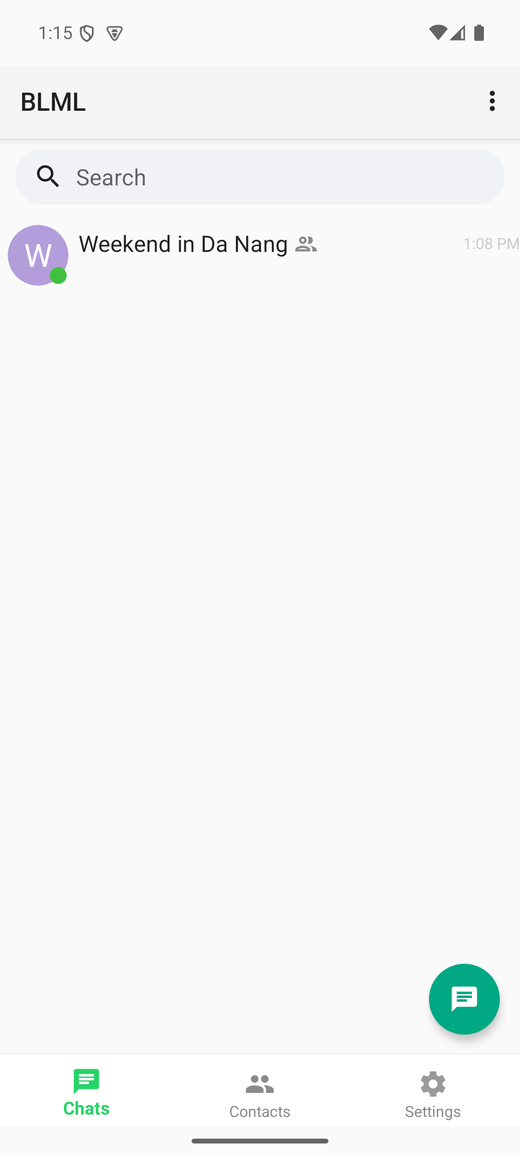
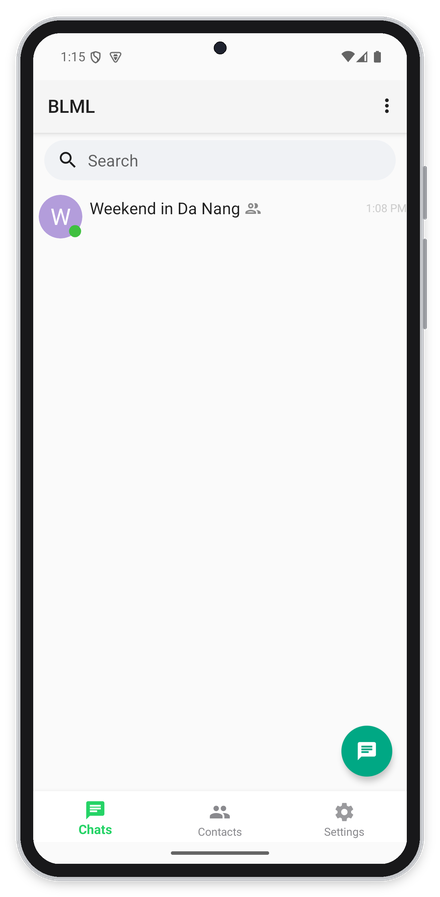
Frame the Android screenshots too, in an Android-style body
Both rows are now framed, and the two frames differ where the real devices do
rather than reusing one outline: squarer glass, a centred punch-hole camera,
and power-above-volume on the right edge only, against the iPhone's Dynamic
Island and buttons on both sides. A reader can tell which platform each row is
without reading the caption, which was the whole reason for not putting an
iPhone bezel around an Android screen in the first place.

The punch-hole is placed in the gap between the clock and the status icons, so
it never covers anything the screenshot is showing.

frame-device.py takes the style as an argument now and keeps deriving every
measurement from the screenshot width, so it stays resolution-independent.

Android sized to match the iPhone row so the handsets read as the same
physical size. 628 KB of images in total.

Changed region(s): [[0.0, 0.0, 1.0, 0.9989], [0.8568, 0.0936, 0.8864, 0.1249]]

diff --git a/brand/frame-device.py b/brand/frame-device.py
@@ -1,12 +1,19 @@
 #!/usr/bin/env python3
-"""Composite a raw iOS screenshot into an iPhone-style device frame.
+"""Composite a raw phone screenshot into a device frame.
+
+    frame-device.py <screenshot> <output> [ios|android]
 
 README screenshots read better inside a handset: it tells the reader at a
-glance that this is a phone app, and stops the flat white login screen from
+glance that this is a phone app, and stops the mostly-white screens from
 dissolving into GitHub's white page background.
 
-Everything is derived from the screenshot width so the geometry holds at any
-resolution. Output is RGBA with a transparent margin, so the frame sits on
+Two styles, because putting an iPhone bezel around an Android screenshot would
+misrepresent what the reader is looking at. They differ where the real devices
+do: corner radius, which edges carry buttons, and whether there is a punch-hole
+camera in the status bar.
+
+All geometry is derived from the screenshot width, so the same script works at
+any resolution. Output is RGBA with a transparent margin so the frame sits on
 both the light and dark GitHub themes.
 """
 import os
@@ -14,22 +21,32 @@ import sys
 
 from PIL import Image, ImageDraw, ImageFilter
 
+STYLES = {
+    # radius, bezel, band colour, button colour, punch-hole
+    "ios": dict(screen_r=0.098, bezel=0.030, band=(209, 211, 215), btn=(176, 178, 183),
+                punch=False),
+    # Pixel-style: slightly squarer glass, a marginally thicker bezel, a warmer
+    # aluminium band, and a centred front camera.
+    "android": dict(screen_r=0.072, bezel=0.034, band=(196, 198, 202), btn=(150, 152, 157),
+                    punch=True),
+}
 
-def frame(src, dst):
+
+def frame(src, dst, style="ios"):
+    cfg = STYLES[style]
     shot = Image.open(src).convert("RGB")
     w, h = shot.size
 
-    bezel = round(w * 0.030)      # black border around the glass
-    rail = round(w * 0.010)       # bright edge suggesting the titanium band
-    pad = round(w * 0.055)        # transparent margin for the shadow + buttons
-    screen_r = round(w * 0.098)   # screen corner radius
+    bezel = round(w * cfg["bezel"])
+    rail = round(w * 0.010)
+    pad = round(w * 0.055)
+    screen_r = round(w * cfg["screen_r"])
     body_r = screen_r + bezel
 
     bw, bh = w + bezel * 2, h + bezel * 2
     cw, ch = bw + pad * 2, bh + pad * 2
     canvas = Image.new("RGBA", (cw, ch), (0, 0, 0, 0))
 
-    # Drop shadow first, so the body sits on top of it.
     shadow = Image.new("RGBA", (cw, ch), (0, 0, 0, 0))
     ImageDraw.Draw(shadow).rounded_rectangle(
         [pad, pad + round(h * 0.004), pad + bw, pad + bh + round(h * 0.004)],
@@ -37,31 +54,44 @@ def frame(src, dst):
     canvas.alpha_composite(shadow.filter(ImageFilter.GaussianBlur(round(w * 0.018))))
 
     d = ImageDraw.Draw(canvas)
-    # Outer band, then the black body inset within it.
     d.rounded_rectangle([pad - rail, pad - rail, pad + bw + rail, pad + bh + rail],
-                        body_r + rail, fill=(209, 211, 215, 255))
+                        body_r + rail, fill=cfg["band"] + (255,))
     d.rounded_rectangle([pad, pad, pad + bw, pad + bh], body_r, fill=(24, 24, 26, 255))
 
-    # Side buttons: volume pair and action button left, power right.
-    btn = (176, 178, 183, 255)
+    btn = cfg["btn"] + (255,)
     bx_l, bx_r = pad - rail, pad + bw + rail
-    for top, length in ((0.150, 0.052), (0.232, 0.086), (0.335, 0.086)):
-        y = pad + round(bh * top)
-        d.rounded_rectangle([bx_l - round(w * 0.008), y, bx_l + 1, y + round(bh * length)],
-                            round(w * 0.004), fill=btn)
-    y = pad + round(bh * 0.245)
-    d.rounded_rectangle([bx_r - 1, y, bx_r + round(w * 0.008), y + round(bh * 0.130)],
-                        round(w * 0.004), fill=btn)
+    thick, r = round(w * 0.008), round(w * 0.004)
+    if style == "ios":
+        # Action button and volume pair left, power right.
+        for top, length in ((0.150, 0.052), (0.232, 0.086), (0.335, 0.086)):
+            y = pad + round(bh * top)
+            d.rounded_rectangle([bx_l - thick, y, bx_l + 1, y + round(bh * length)], r, fill=btn)
+        y = pad + round(bh * 0.245)
+        d.rounded_rectangle([bx_r - 1, y, bx_r + thick, y + round(bh * 0.130)], r, fill=btn)
+    else:
+        # Android convention: power above the volume rocker, both on the right.
+        for top, length in ((0.170, 0.062), (0.255, 0.105)):
+            y = pad + round(bh * top)
+            d.rounded_rectangle([bx_r - 1, y, bx_r + thick, y + round(bh * length)], r, fill=btn)
 
-    # Round the screenshot's own corners so it matches the glass.
     mask = Image.new("L", (w, h), 0)
     ImageDraw.Draw(mask).rounded_rectangle([0, 0, w, h], screen_r, fill=255)
     canvas.paste(shot, (pad + bezel, pad + bezel), mask)
+
+    if cfg["punch"]:
+        # Centred front camera. It lands in the empty gap between the clock and
+        # the status icons, so it never covers anything the screenshot is showing.
+        cr = round(w * 0.017)
+        cx = pad + bezel + w // 2
+        cy = pad + bezel + round(h * 0.0175)
+        d.ellipse([cx - cr, cy - cr, cx + cr, cy + cr], fill=(12, 12, 14, 255))
+        d.ellipse([cx - cr + 2, cy - cr + 2, cx + cr - 2, cy + cr - 2], fill=(30, 34, 46, 255))
 
     canvas.save(dst)
     return canvas.size
 
 
 if __name__ == "__main__":
-    size = frame(sys.argv[1], sys.argv[2])
-    print(f"  {os.path.basename(sys.argv[2])}  {size[0]}x{size[1]}")
+    style = sys.argv[3] if len(sys.argv) > 3 else "ios"
+    size = frame(sys.argv[1], sys.argv[2], style)
+    print(f"  {os.path.basename(sys.argv[2])}  {size[0]}x{size[1]}  ({style})")

diff --git a/README.md b/README.md
@@ -24,8 +24,8 @@ address anyone can reach is not a room anyone can walk into.
 <p align="center"><sub>On iPhone</sub></p>
 
 <p align="center">
-  <img src="brand/screenshots/android-chats.png" width="215" alt="Android chat list">
-  <img src="brand/screenshots/android-conversation.png" width="215" alt="Android conversation">
+  <img src="brand/screenshots/android-chats.png" width="192" alt="Android chat list">
+  <img src="brand/screenshots/android-conversation.png" width="192" alt="Android conversation">
 </p>
 <p align="center"><sub>On Android</sub></p>
 
